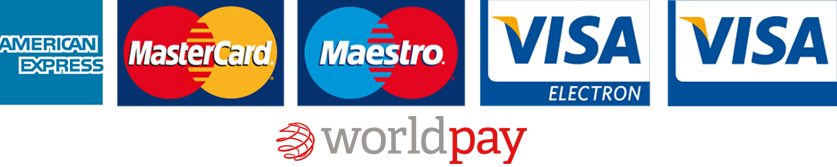
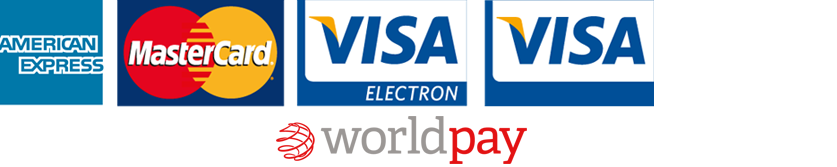
:art: Modify footer

Changed region(s): [[0.3417, 0.0, 1.0, 0.6587]]

diff --git a/src/components/Footer.vue b/src/components/Footer.vue
@@ -1,7 +1,14 @@
 <template>
   <v-footer class="purple darken-4 white--text text-xs-center">
-    <p class="text-xs-right">
-      © 2017 King's College, Cambridge
-    </p>
+    <v-layout row wrap>
+      <v-flex xs6>
+        <img src="static/media/payment-cards-footer.png" style="width:30%" alt="Payment cards">
+      </v-flex>
+      <v-flex xs6>
+        <p>
+          © 2017 King's College, Cambridge
+        </p>
+      </v-flex>
+    </v-layout>
   </v-footer>
 </template>
